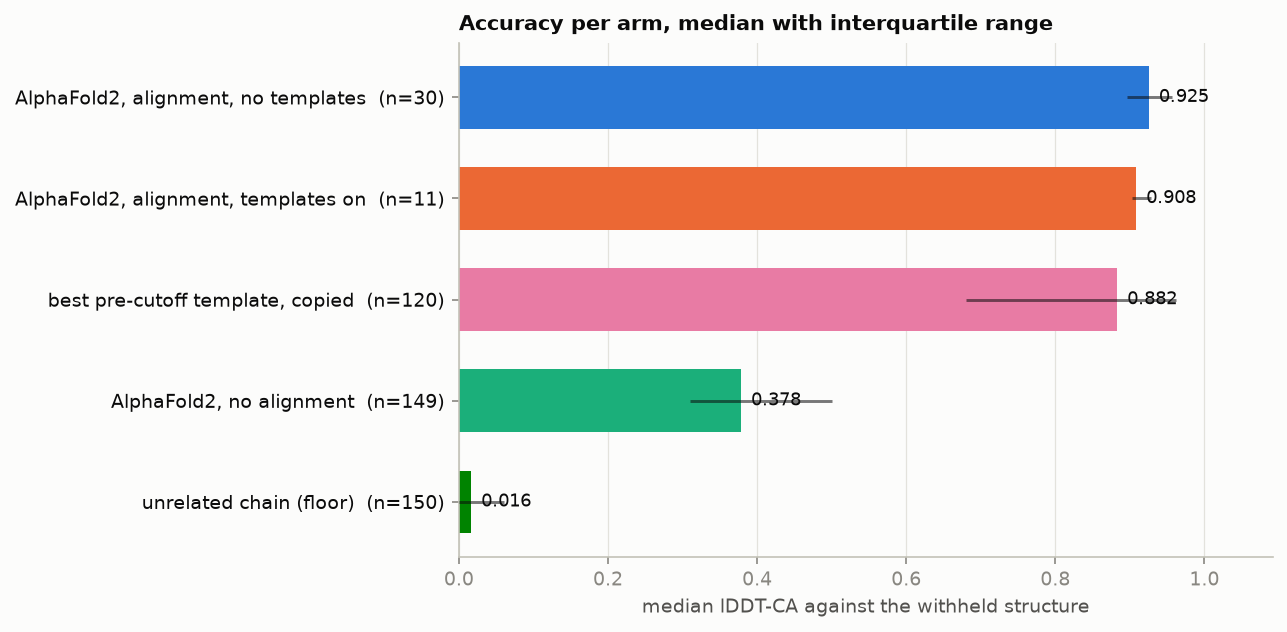
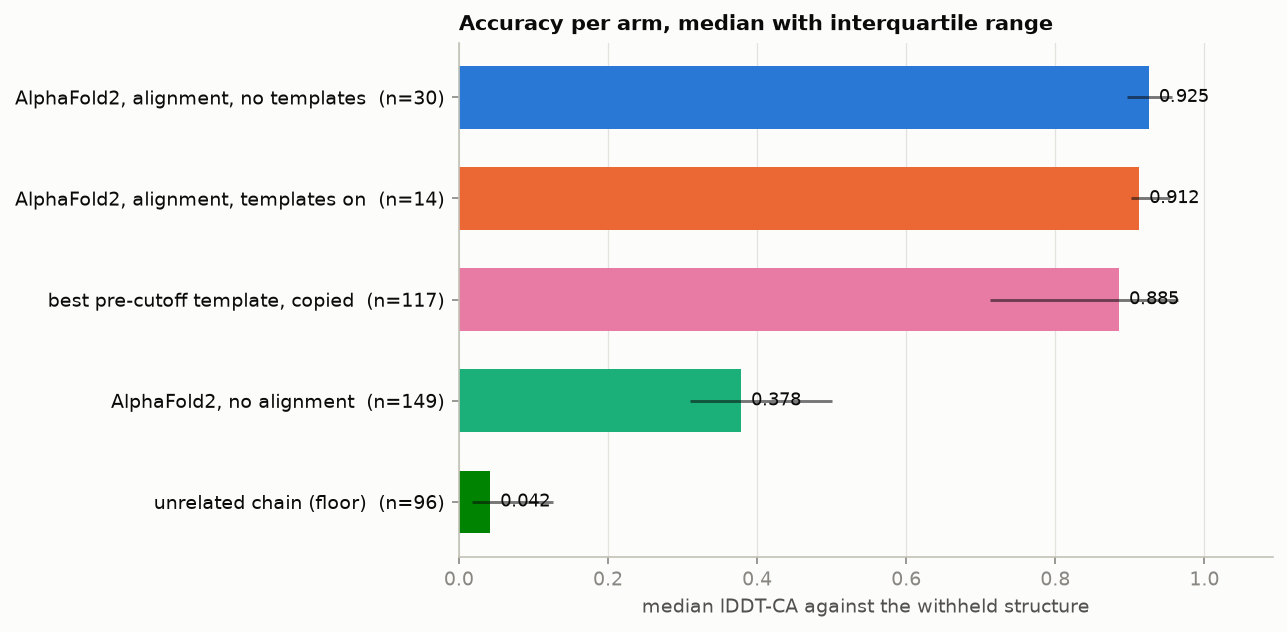
figure_label_loop

diff --git a/scripts/06a_build_null_floors.py b/scripts/06a_build_null_floors.py
@@ -117,11 +117,23 @@ def chain_ca(path: Path, entity_id: str | None = None,
     if not found:
         return None, [], "", None
     if match_seq and len(found) > 1:
+        # Identity relative to the target, not to whichever of the two
+        # sequences is shorter. gemmi's default normalises by the shorter one,
+        # so a 90-residue target that happens to align inside a 3423-residue
+        # chain of a large assembly scores 100 per cent and can outrank the
+        # chain that actually is the target's relative. Asking instead what
+        # fraction of the target the candidate covers cannot be inflated by
+        # the candidate being large.
         def identity_to(seq: str) -> float:
             res = gemmi.align_string_sequences(list(match_seq), list(seq), [],
                                                gemmi.AlignmentScoring())
-            return res.calculate_identity()
-        found.sort(key=lambda f: identity_to(f[2]), reverse=True)
+            return res.calculate_identity(1)
+        # Ties go to the chain closest in length to the target. Two chains can
+        # both cover the target completely while one of them carries several
+        # thousand residues the target does not have, and a floor built from
+        # that chain is a different object from the one being scored.
+        found.sort(key=lambda f: (-identity_to(f[2]),
+                                  abs(len(f[2]) - len(match_seq))))
     name, coords, letters = found[0]
     return name, coords, letters, st
 
@@ -140,6 +152,10 @@ def aligned_pairs(seq_a: str, coords_a: list, seq_b: str, coords_b: list):
     result = gemmi.align_string_sequences(list(seq_a), list(seq_b), [],
                                           gemmi.AlignmentScoring())
     pairs = []
+    # The identity returned below is relative to seq_b, the target, for the
+    # same reason the chain is chosen that way: normalised by the shorter
+    # sequence it reports what a fragment of a large chain matched rather than
+    # how much of the target was covered.
     i = j = 0
     for token in _cigar_tokens(result.cigar_str()):
         n, op = token
@@ -153,7 +169,7 @@ def aligned_pairs(seq_a: str, coords_a: list, seq_b: str, coords_b: list):
             i += n
         elif op == "D":
             j += n
-    return pairs, result.calculate_identity()
+    return pairs, result.calculate_identity(2)
 
 
 def _cigar_tokens(cigar: str):

diff --git a/scripts/11_figures.py b/scripts/11_figures.py
@@ -227,8 +227,15 @@ def fig_calibration_curve(results: Path, figures: Path) -> str | None:
     min_gap = 0.055
     placed: list[float] = []
     for y, x, text in ends:
-        while placed and y - placed[-1] < min_gap:
-            y = placed[-1] + min_gap
+        # A maximum rather than a loop. Written as a loop this does not
+        # terminate: after y is set to placed[-1] + min_gap the subtraction
+        # that tests it can come back a hair under min_gap in binary floating
+        # point, the condition stays true, and y stops changing. On this set
+        # placed[-1] was 0.9021 and the difference came back 0.05499999999999994
+        # against a gap of 0.055, which spun for five hours of processor time
+        # and wrote nothing.
+        if placed:
+            y = max(y, placed[-1] + min_gap)
         placed.append(y)
         ax.annotate(text, (x, y), xytext=(8, 0), textcoords="offset points",
                     fontsize=7.5, color=INK_2, va="center",
